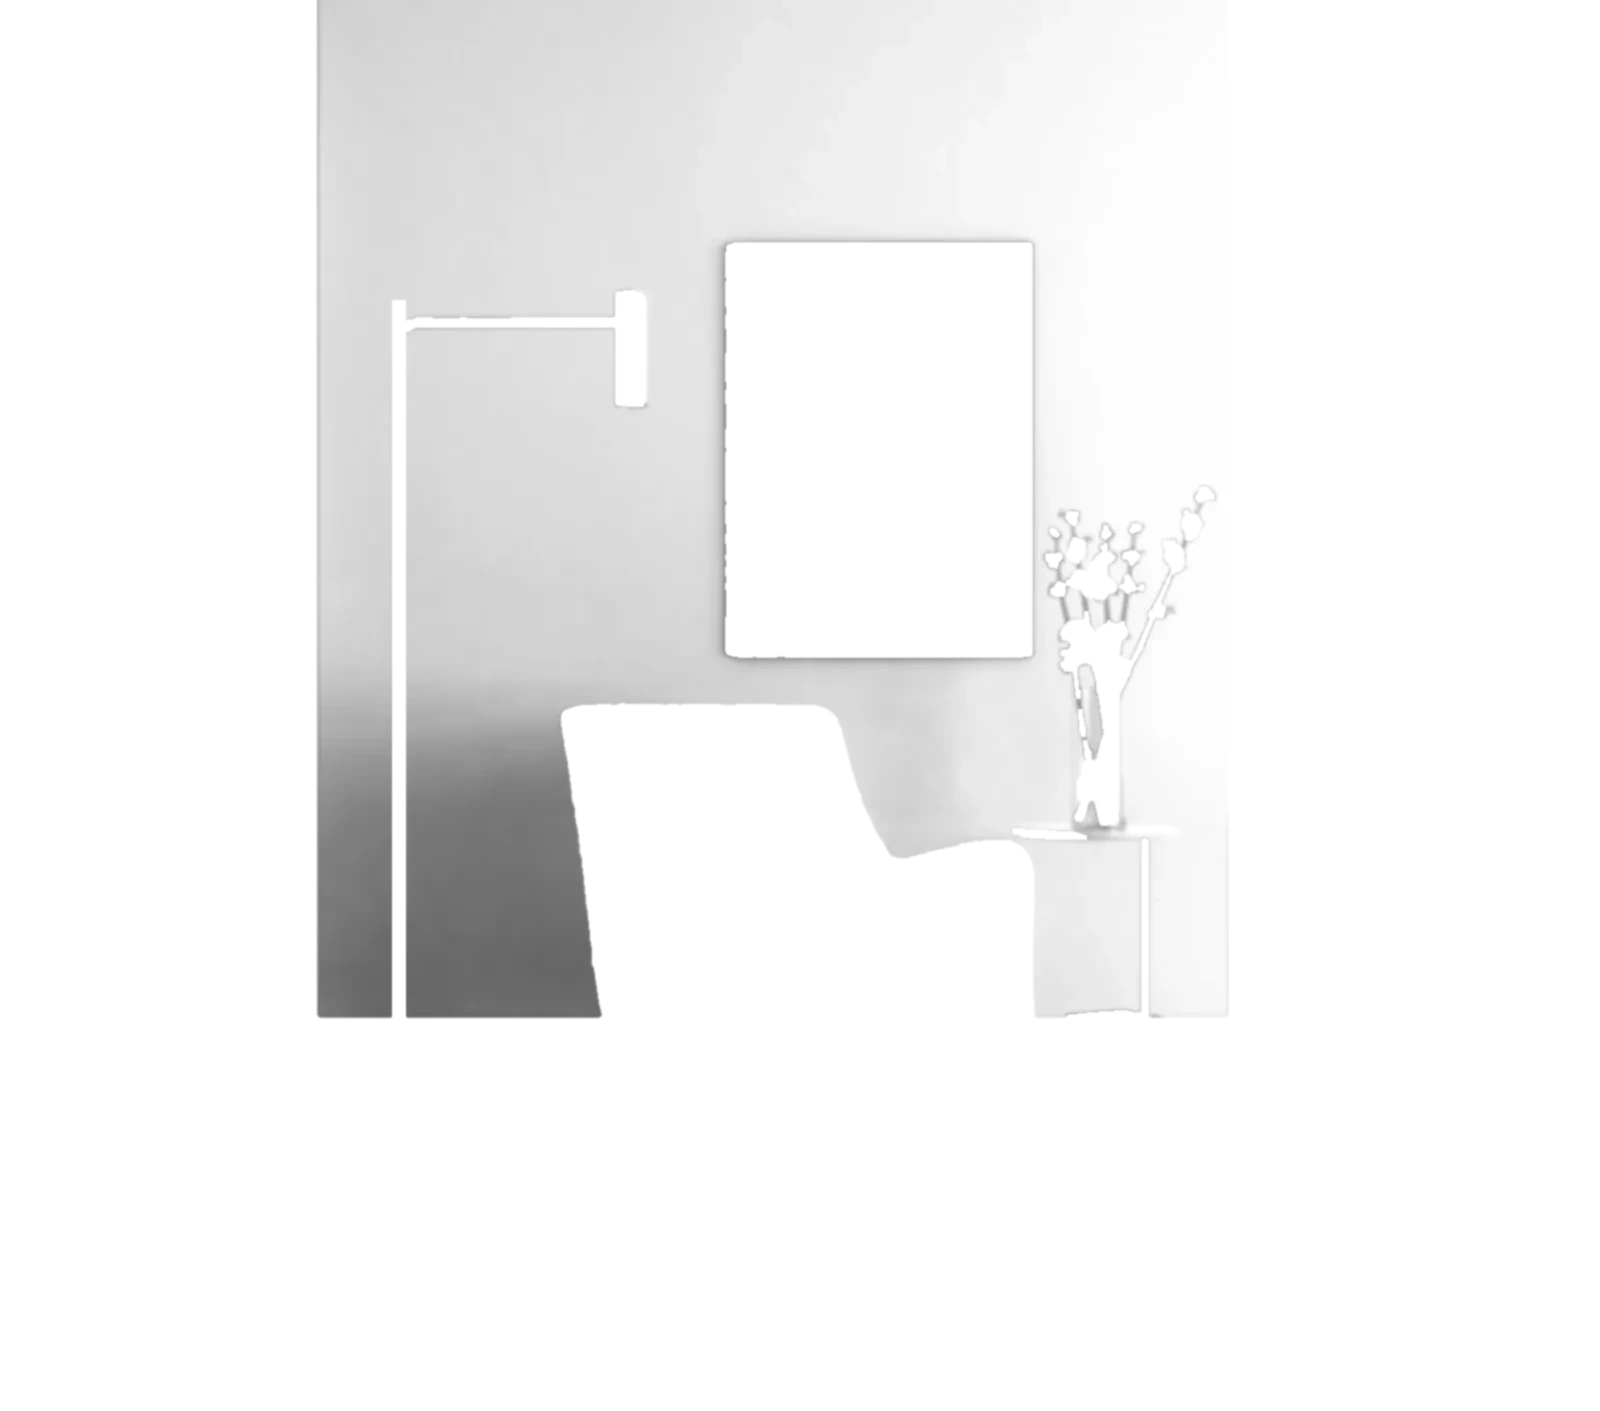
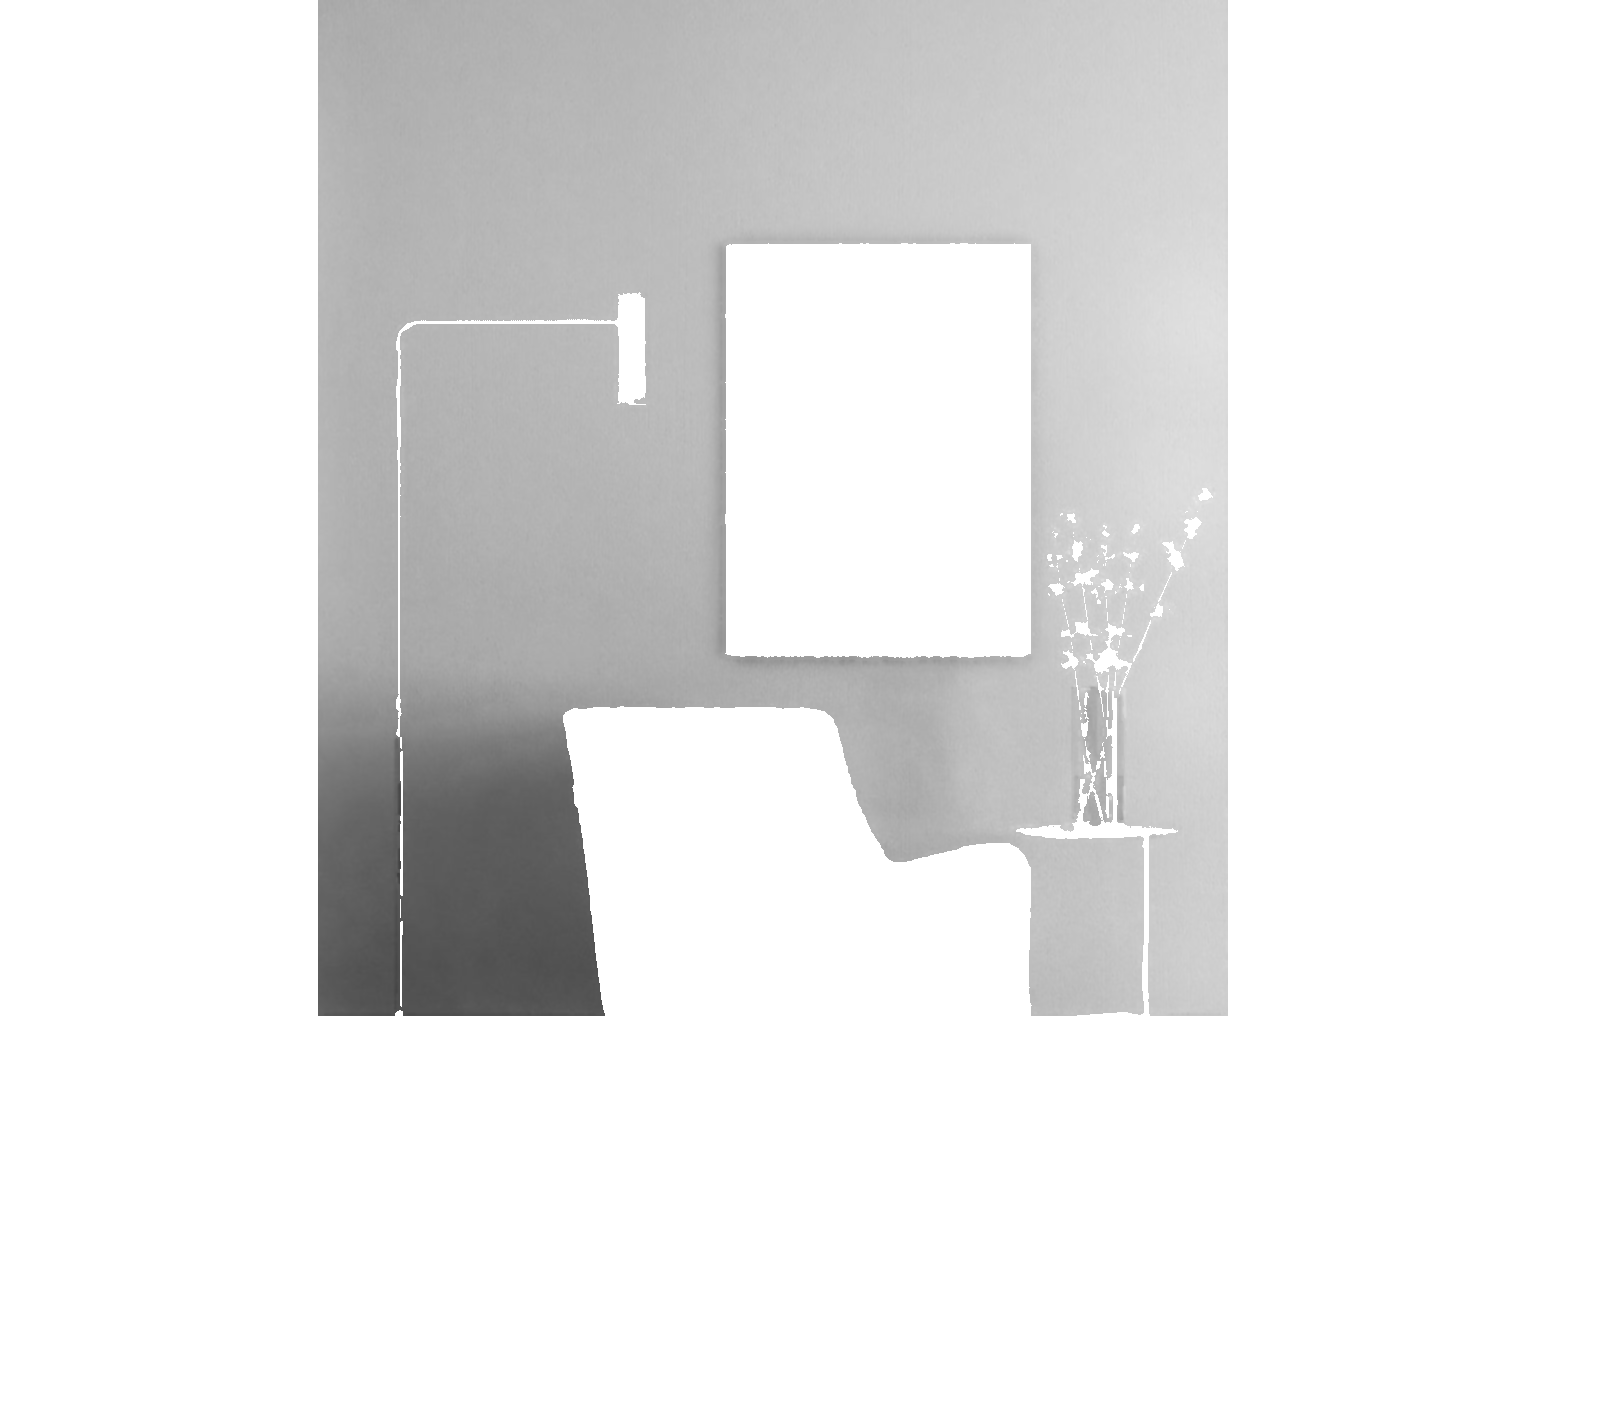
Interior visualizer: clean object edges, photo lighting, fixed labels, live composition

Changed region(s): [[0.1875, 0.0, 0.7812, 0.7172], [0.2812, 0.7172, 0.3125, 0.7484]]

diff --git a/app.js b/app.js
@@ -699,11 +699,12 @@
   }
   var roomGenT = 0;
   function genChanged(opt) {
-    updateGenUI(opt && opt.draft); genTexCache = null;
+    updateGenUI(opt && opt.draft);
     requestDraw(opt && opt.draft);
+    // cached renders of the blend are keyed by its recipe, so a changed blend never shows a stale room
+    dropGenCache();
     if (ROOM.finish && ROOM.finish.type === 'gen') {
-      ROOM.cache = {};
-      clearTimeout(roomGenT); roomGenT = setTimeout(drawRoom, 260);
+      clearTimeout(roomGenT); roomGenT = setTimeout(drawRoom, opt && opt.draft ? 320 : 60);
       updateRoomNow();
     }
   }
@@ -849,7 +850,7 @@
       if (navigator.clipboard && window.isSecureContext) navigator.clipboard.writeText(txt).then(done, fallback); else fallback();
     });
     $('#toRoom').addEventListener('click', function () {
-      ROOM.finish = { type: 'gen' }; ROOM.cache = {}; renderRoomChips(); drawRoom(); updateRoomNow();
+      ROOM.finish = { type: 'gen' }; renderRoomChips(); drawRoom(); updateRoomNow();
       document.getElementById('interiors').scrollIntoView({ behavior: reduce ? 'auto' : 'smooth' });
     });
     if ('IntersectionObserver' in window) {
@@ -882,79 +883,148 @@
      Interiors — wall visualizer (mask + shading map)
      ===================================================== */
   var ROOMS = {
-    d: { img: 'img/rooms/room-d.jpg', mask: 'img/rooms/room-d-mask.webp', fx: 0.55, fy: 0.55, tile: 0.36 },
-    a: { img: 'img/rooms/room-a.jpg', mask: 'img/rooms/room-a-mask.webp', fx: 0.78, fy: 0.5, tile: 0.34 },
-    c: { img: 'img/rooms/room-c.jpg', mask: 'img/rooms/room-c-mask.webp', fx: 0.5, fy: 0.5, tile: 0.34 }
+    d: { img: 'img/rooms/room-d.jpg', mask: 'img/rooms/room-d-mask.webp', edge: 'img/rooms/room-d-edge.webp', fx: 0.55, fy: 0.55, tile: 0.36 },
+    a: { img: 'img/rooms/room-a.jpg', mask: 'img/rooms/room-a-mask.webp', edge: 'img/rooms/room-a-edge.webp', fx: 0.78, fy: 0.5, tile: 0.34 },
+    c: { img: 'img/rooms/room-c.jpg', mask: 'img/rooms/room-c-mask.webp', edge: 'img/rooms/room-c-edge.webp', fx: 0.5, fy: 0.5, tile: 0.34 }
   };
+  /* mask RGB = light on the wall, measured from the photo itself (255 = SHADE_GAIN x the chosen shade);
+     mask alpha = coated area; edge layer = object edges with the old wall colour taken out (no halo) */
+  var SHADE_GAIN = 1.3;
   var FINISHES = ['B8A389', 'B7B3A8', 'B4986D', 'C5866E', '90A488', '819BAD', '9F9287'];
-  var ROOM = { id: 'd', finish: { type: 'tex', hex: 'B8A389' }, split: 0.56, cache: {} };
+  var ROOM = { id: 'd', finish: { type: 'tex', hex: 'B8A389' }, split: 0.56, cache: {}, order: [] };
   var roomCanvas = $('#roomCanvas'), roomStage = $('#roomStage');
   var imgCache = {};
   function loadImg(src) {
     if (imgCache[src]) return imgCache[src];
-    imgCache[src] = new Promise(function (res, rej) { var im = new Image(); im.decoding = 'async'; im.onload = function () { res(im); }; im.onerror = rej; im.src = src; });
+    imgCache[src] = new Promise(function (res, rej) { var im = new Image(); im.decoding = 'async'; im.onload = function () { res(im); }; im.onerror = function (e) { delete imgCache[src]; rej(e); }; im.src = src; });
     return imgCache[src];
   }
-  /* seamless tile without mirror symmetry: the texture blended over a half-offset copy of itself */
+  /* seamless tile without mirror symmetry and without visible seams: the texture is cross-faded with a
+     half-offset copy of itself, first across x, then across y. The blend keeps the grain contrast
+     (variance-preserving weights), so the cross-fade zones do not read as a softer grid on the wall. */
   function seamlessTile(src, tw, th) {
-    tw = Math.round(tw); th = Math.round(th);
+    tw = Math.max(8, Math.round(tw)); th = Math.max(8, Math.round(th));
     var c = document.createElement('canvas'); c.width = tw; c.height = th;
-    var x = c.getContext('2d'), hw = tw / 2, hh = th / 2;
-    x.drawImage(src, -hw, -hh, tw, th); x.drawImage(src, hw, -hh, tw, th);
-    x.drawImage(src, -hw, hh, tw, th); x.drawImage(src, hw, hh, tw, th);
-    var a = document.createElement('canvas'); a.width = tw; a.height = th;
-    var ax = a.getContext('2d'); ax.drawImage(src, 0, 0, tw, th);
-    ax.globalCompositeOperation = 'destination-in';
-    ax.save(); ax.translate(hw, hh); ax.scale(1, th / tw);
-    var g = ax.createRadialGradient(0, 0, 0, 0, 0, hw);
-    g.addColorStop(0, 'rgba(0,0,0,1)'); g.addColorStop(0.62, 'rgba(0,0,0,1)'); g.addColorStop(1, 'rgba(0,0,0,0)');
-    ax.fillStyle = g; ax.fillRect(-hw, -hw, tw, tw); ax.restore();
-    x.drawImage(a, 0, 0);
+    var x = c.getContext('2d');
+    x.imageSmoothingEnabled = true; x.imageSmoothingQuality = 'high';
+    x.drawImage(src, 0, 0, tw, th);
+    var img;
+    try { img = x.getImageData(0, 0, tw, th); } catch (e) { return c; }
+    var p = img.data, n = tw * th, mr = 0, mg = 0, mb = 0, i, j, k;
+    for (k = 0; k < n; k++) { mr += p[k * 4]; mg += p[k * 4 + 1]; mb += p[k * 4 + 2]; }
+    mr /= n; mg /= n; mb /= n;
+    var A = new Float32Array(n * 3), B = new Float32Array(n * 3);
+    for (k = 0; k < n; k++) { A[k * 3] = p[k * 4] - mr; A[k * 3 + 1] = p[k * 4 + 1] - mg; A[k * 3 + 2] = p[k * 4 + 2] - mb; }
+    function wts(len) {
+      var w = new Float32Array(len * 2);
+      for (var q = 0; q < len; q++) {
+        var t = 1 - Math.abs(2 * (q + 0.5) / len - 1); t = t * t * (3 - 2 * t);
+        var u = 1 - t, nn = 1 / Math.sqrt(t * t + u * u);
+        w[q * 2] = t * nn; w[q * 2 + 1] = u * nn;
+      }
+      return w;
+    }
+    var wx = wts(tw), wy = wts(th), hw = tw >> 1, hh = th >> 1;
+    for (j = 0; j < th; j++) for (i = 0; i < tw; i++) {
+      var o = (j * tw + i) * 3, s2 = (j * tw + (i + hw) % tw) * 3, a = wx[i * 2], b = wx[i * 2 + 1];
+      B[o] = A[o] * a + A[s2] * b; B[o + 1] = A[o + 1] * a + A[s2 + 1] * b; B[o + 2] = A[o + 2] * a + A[s2 + 2] * b;
+    }
+    for (j = 0; j < th; j++) {
+      var a2 = wy[j * 2], b2 = wy[j * 2 + 1], js = ((j + hh) % th) * tw;
+      for (i = 0; i < tw; i++) {
+        var o2 = (j * tw + i) * 3, s3 = (js + i) * 3, d = (j * tw + i) * 4;
+        p[d] = mr + B[o2] * a2 + B[s3] * b2; p[d + 1] = mg + B[o2 + 1] * a2 + B[s3 + 1] * b2; p[d + 2] = mb + B[o2 + 2] * a2 + B[s3 + 2] * b2; p[d + 3] = 255;
+      }
+    }
+    x.putImageData(img, 0, 0);
     return c;
   }
-  var genTexCache = null;
+  /* the generator blend as a wall texture: same grain size on the wall as the catalogue textures,
+     no large mottling (it would repeat from tile to tile) */
+  var genTexCache = null, genTexKey = '';
+  function genKey() { return compKey() + '|' + G.seed; }
   function genTexture() {
-    if (genTexCache) return genTexCache;
+    var k = genKey();
+    if (genTexCache && genTexKey === k) return genTexCache;
     var c = document.createElement('canvas'); c.width = 900; c.height = 600;
-    paint(c.getContext('2d'), 900, 600, paintOpts({ scale: 1.25, mottle: 8 }));
-    genTexCache = c; return c;
+    paint(c.getContext('2d'), 900, 600, paintOpts({ scale: 0.72, mottle: 0 }));
+    genTexCache = c; genTexKey = k; return c;
+  }
+  function finishKey(f) { return f.type === 'gen' ? 'gen:' + genKey() : f.hex; }
+  function dropGenCache() {
+    Object.keys(ROOM.cache).forEach(function (k) { if (k.indexOf('|gen:') > -1) delete ROOM.cache[k]; });
+    ROOM.order = ROOM.order.filter(function (k) { return !!ROOM.cache[k]; });
   }
   function coated(roomId, finish) {
-    var key = roomId + '|' + (finish.type === 'gen' ? 'gen' : finish.hex);
+    var key = roomId + '|' + finishKey(finish);
     if (ROOM.cache[key]) return Promise.resolve(ROOM.cache[key]);
     var R = ROOMS[roomId];
     var texP = finish.type === 'gen' ? Promise.resolve(genTexture()) : loadImg('img/tex/' + finish.hex + '.webp');
-    return Promise.all([loadImg(R.img), loadImg(R.mask), texP]).then(function (r) {
-      var im = r[0], mask = r[1], tex = r[2];
+    return Promise.all([loadImg(R.img), loadImg(R.mask), loadImg(R.edge), texP]).then(function (r) {
+      if (ROOM.cache[key]) return ROOM.cache[key];
+      var im = r[0], mask = r[1], edge = r[2], tex = r[3];
       var W = im.naturalWidth, H = im.naturalHeight;
       var off = document.createElement('canvas'); off.width = W; off.height = H;
       var o = off.getContext('2d');
       var tw = W * R.tile, th = tw * (tex.height || tex.naturalHeight) / (tex.width || tex.naturalWidth);
       var tile = seamlessTile(tex, tw, th);
-      for (var y = 0; y < H; y += tile.height) for (var x = 0; x < W; x += tile.width) o.drawImage(tile, x, y);
+      o.fillStyle = o.createPattern(tile, 'repeat'); o.fillRect(0, 0, W, H);
+      // light and contact shadows of the original wall (multiply), then back up to the true shade (x SHADE_GAIN)
       o.globalCompositeOperation = 'multiply'; o.drawImage(mask, 0, 0, W, H);
+      var cp = document.createElement('canvas'); cp.width = W; cp.height = H; cp.getContext('2d').drawImage(off, 0, 0);
+      o.globalCompositeOperation = 'lighter'; o.globalAlpha = SHADE_GAIN - 1; o.drawImage(cp, 0, 0);
+      o.globalAlpha = 1; cp.width = cp.height = 1;
       o.globalCompositeOperation = 'destination-in'; o.drawImage(mask, 0, 0, W, H);
-      ROOM.cache[key] = off; return off;
+      // object edges laid back over the coating (their soft pixels no longer carry the old wall colour)
+      o.globalCompositeOperation = 'source-over'; o.drawImage(edge, 0, 0, W, H);
+      ROOM.cache[key] = off; ROOM.order.push(key);
+      // keep memory bounded (each entry is a full-size canvas)
+      while (ROOM.order.length > 6) { var old = ROOM.order.shift(); if (old !== key) delete ROOM.cache[old]; }
+      return off;
     });
   }
-  var roomToken = 0;
+  /* before/after labels sit in the stage corners; a label fades out when the divider reaches it */
+  var baL = $('.rooms__ba--l'), baR = $('.rooms__ba--r');
+  function placeLabels() {
+    if (!roomStage || !baL || !baR) return;
+    var st = roomStage.getBoundingClientRect(); if (!st.width) return;
+    var lx = st.left + st.width * ROOM.split, gap = 14;
+    // the round handle stays whole inside the stage near the edges (the divider line itself is not moved)
+    var hx = st.width * ROOM.split, hm = 30;
+    roomStage.style.setProperty('--hx', (Math.max(hm, Math.min(st.width - hm, hx)) - hx).toFixed(1) + 'px');
+    var l = baL.getBoundingClientRect(), r = baR.getBoundingClientRect();
+    baL.classList.toggle('is-off', lx < l.right + gap);
+    baR.classList.toggle('is-off', lx > r.left - gap);
+  }
+  var roomToken = 0, roomView = { key: '' };
   function drawRoom() {
     if (!roomCanvas) return;
     var tok = ++roomToken, R = ROOMS[ROOM.id];
+    placeLabels();
+    roomStage.style.setProperty('--x', (ROOM.split * 100).toFixed(2) + '%');
     Promise.all([loadImg(R.img), coated(ROOM.id, ROOM.finish)]).then(function (r) {
       if (tok !== roomToken) return;
       sizeCanvas(roomCanvas, 2400);
       var im = r[0], off = r[1], cw = roomCanvas.width, ch = roomCanvas.height;
-      var s = Math.max(cw / im.naturalWidth, ch / im.naturalHeight);
-      var dw = im.naturalWidth * s, dh = im.naturalHeight * s;
-      var dx = (cw - dw) * R.fx, dy = (ch - dh) * R.fy;
+      // both layers are resampled to the canvas size once; dragging the divider then only blits them
+      var vk = ROOM.id + '|' + finishKey(ROOM.finish) + '|' + cw + 'x' + ch;
+      if (roomView.key !== vk || roomView.off !== off) {
+        var s = Math.max(cw / im.naturalWidth, ch / im.naturalHeight);
+        var dw = im.naturalWidth * s, dh = im.naturalHeight * s;
+        var dx = (cw - dw) * R.fx, dy = (ch - dh) * R.fy;
+        [['base', im], ['coat', off]].forEach(function (l) {
+          var c = roomView[l[0]] || (roomView[l[0]] = document.createElement('canvas'));
+          if (c.width !== cw || c.height !== ch) { c.width = cw; c.height = ch; }
+          var x = c.getContext('2d');
+          x.clearRect(0, 0, cw, ch); x.imageSmoothingEnabled = true; x.imageSmoothingQuality = 'high';
+          x.drawImage(l[1], dx, dy, dw, dh);
+        });
+        roomView.key = vk; roomView.off = off;
+      }
       var ctx = roomCanvas.getContext('2d');
-      ctx.clearRect(0, 0, cw, ch);
-      ctx.drawImage(im, dx, dy, dw, dh);
-      ctx.save(); ctx.beginPath(); ctx.rect(0, 0, cw * ROOM.split, ch); ctx.clip();
-      ctx.drawImage(off, dx, dy, dw, dh);
-      ctx.restore();
-      roomStage.style.setProperty('--x', (ROOM.split * 100).toFixed(2) + '%');
+      ctx.drawImage(roomView.base, 0, 0);
+      var sx = Math.round(cw * ROOM.split);
+      if (sx > 0) ctx.drawImage(roomView.coat, 0, 0, sx, ch, 0, 0, sx, ch);
     }).catch(function () {});
   }
   function renderRoomChips() {

diff --git a/styles.css b/styles.css
@@ -464,14 +464,15 @@ em{font-style:normal}
 .rooms__stage{position:relative;aspect-ratio:16/9.2;overflow:hidden;background:#d9d3c9;touch-action:pan-y;cursor:ew-resize;user-select:none;-webkit-user-select:none}
 .rooms__stage>canvas{position:absolute;inset:0;width:100%;height:100%}
 .split{position:absolute;top:0;bottom:0;left:var(--x,50%);width:1px;background:rgba(255,255,255,.9);box-shadow:0 0 0 .5px rgba(0,0,0,.08);z-index:2;pointer-events:none}
-.split__h{position:absolute;top:50%;left:50%;width:48px;height:48px;margin:-24px 0 0 -24px;border-radius:50%;background:rgba(247,244,239,.92);-webkit-backdrop-filter:blur(8px);backdrop-filter:blur(8px);display:grid;place-items:center;box-shadow:0 10px 30px -8px rgba(0,0,0,.35);color:var(--tl)}
+.split__h{position:absolute;top:50%;left:50%;width:48px;height:48px;margin:-24px 0 0 -24px;transform:translateX(var(--hx,0px));border-radius:50%;background:rgba(247,244,239,.92);-webkit-backdrop-filter:blur(8px);backdrop-filter:blur(8px);display:grid;place-items:center;box-shadow:0 10px 30px -8px rgba(0,0,0,.35);color:var(--tl)}
 .split__h svg{width:18px;height:18px;fill:none;stroke:currentColor;stroke-width:1.4}
-.rooms__badge,.rooms__ba{position:absolute;z-index:3;font-size:10px;font-weight:600;letter-spacing:.16em;text-transform:uppercase;padding:8px 11px;background:rgba(247,244,239,.84);-webkit-backdrop-filter:blur(8px);backdrop-filter:blur(8px);color:var(--tl);pointer-events:none}
-.rooms__badge{left:16px;top:16px;display:flex;align-items:center;gap:8px}
+.rooms__hud{position:absolute;z-index:3;left:16px;right:16px;top:16px;display:grid;grid-template-columns:auto auto 1fr auto;align-items:start;gap:8px;pointer-events:none}
+.rooms__badge,.rooms__ba{font-size:10px;font-weight:600;letter-spacing:.16em;line-height:1.3;text-transform:uppercase;white-space:nowrap;padding:8px 11px;background:rgba(247,244,239,.84);-webkit-backdrop-filter:blur(8px);backdrop-filter:blur(8px);color:var(--tl);pointer-events:none}
+.rooms__badge{display:flex;align-items:center;gap:8px}
 .rooms__badge::before{content:"";width:5px;height:5px;border-radius:50%;background:var(--brass-l)}
-.rooms__ba{top:16px}
-.rooms__ba--l{left:50%;transform:translateX(calc(-100% - 12px));left:var(--x,50%)}
-.rooms__ba--r{left:calc(var(--x,50%) + 12px)}
+.rooms__ba{transition:opacity .28s var(--ease)}
+.rooms__ba--r{grid-column:4}
+.rooms__ba.is-off{opacity:0}
 .rooms__now{position:absolute;right:16px;bottom:16px;z-index:3;display:flex;align-items:center;gap:12px;padding:10px 14px 10px 10px;background:rgba(247,244,239,.9);-webkit-backdrop-filter:blur(10px);backdrop-filter:blur(10px);color:var(--tl);pointer-events:none}
 .rooms__now .th{display:block;flex:none;width:36px;height:36px;border-radius:50%;background-size:cover;background-position:center;box-shadow:inset 0 0 0 1px rgba(0,0,0,.08)}
 .rooms__now b{display:block;font-weight:500;font-size:14px;line-height:1.2;white-space:nowrap}
@@ -688,8 +689,10 @@ a.cline__v:hover{color:var(--brass-2)}
   .skyctl.is-mini .skyctl__pill{padding:0 8.5px}
   .gen .sec-head{margin-bottom:36px}
   .rooms__now{right:10px;bottom:10px;left:10px}
-  .rooms__ba{top:48px}
-  .rooms__badge{left:10px;top:10px}
+  .rooms__hud{left:10px;right:10px;top:10px;grid-template-columns:auto 1fr auto;row-gap:6px}
+  .rooms__badge{grid-column:1 / -1;justify-self:start}
+  .rooms__ba--l{grid-column:1}
+  .rooms__ba--r{grid-column:3}
   .vgrid{grid-template-columns:1fr}
   .vcard,.vcard--xl{aspect-ratio:16/11}
   .steps__list{grid-template-columns:1fr}

diff --git a/index.html b/index.html
@@ -292,9 +292,11 @@
       <div class="rooms__stage" id="roomStage">
         <canvas id="roomCanvas" role="img" aria-label="Interior visualization"></canvas>
         <div class="split" id="split" aria-hidden="true"><span class="split__h"><svg viewBox="0 0 24 24"><path d="M9 6l-6 6 6 6M15 6l6 6-6 6"/></svg></span></div>
-        <span class="rooms__badge" data-i18n="rooms.badge">Візуалізація</span>
-        <span class="rooms__ba rooms__ba--l" data-i18n="rooms.after">З покриттям</span>
-        <span class="rooms__ba rooms__ba--r" data-i18n="rooms.before">Оригінал</span>
+        <div class="rooms__hud">
+          <span class="rooms__badge" data-i18n="rooms.badge">Візуалізація</span>
+          <span class="rooms__ba rooms__ba--l" data-i18n="rooms.after">З покриттям</span>
+          <span class="rooms__ba rooms__ba--r" data-i18n="rooms.before">Оригінал</span>
+        </div>
         <div class="rooms__now" id="roomNow"></div>
       </div>
       <div class="rooms__chips" id="roomChips"></div>
